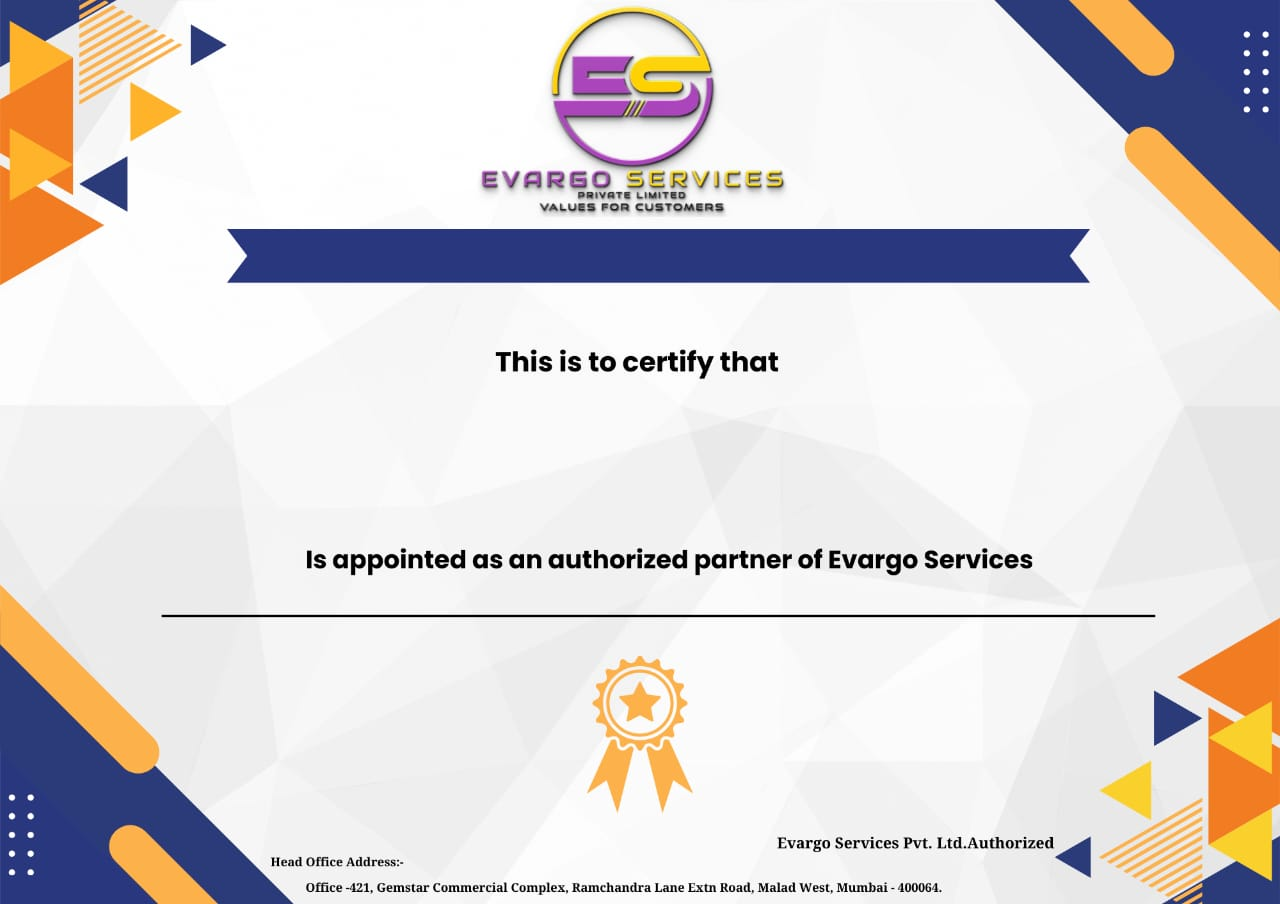
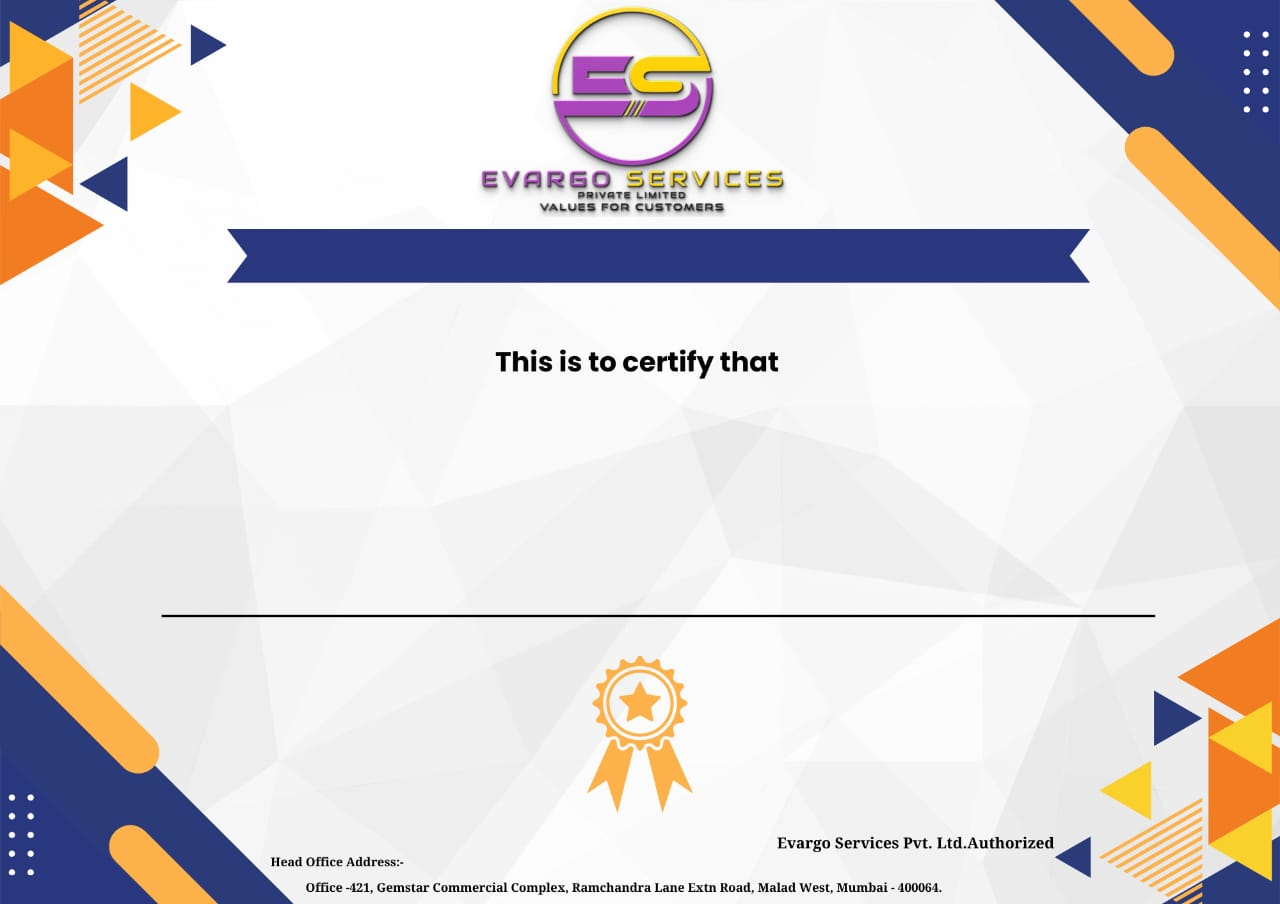
changed certificate to have some extra text on it

Changed region(s): [[0.25, 0.5885, 0.8125, 0.6504]]

diff --git a/certificate.php b/certificate.php
@@ -319,6 +319,15 @@ $role = $_SESSION['role'];
                     fontFamily: "'Poppins', sans-serif",
                     color: '#FFFFFF',
                     weight: 'bold'
+                },
+                partnerTitle: {
+                    x:650,
+                    y: 570,
+                    maxWidth: 900,
+                    fontSize: 66,
+                    fontFamily: "'Poppins', sans-serif",
+                    color: '#000000',
+                    weight: 'bold'
                 }
             };
 
@@ -438,6 +447,17 @@ $role = $_SESSION['role'];
                     textConfig.role.fontFamily,
                     textConfig.role.color,
                     textConfig.role.weight
+                );
+
+                drawCenteredText(
+                    `is appointed as an authorized ${userData.role} of Evargo Services.`,
+                    textConfig.partnerTitle.x,
+                    textConfig.partnerTitle.y,
+                    textConfig.partnerTitle.maxWidth,
+                    textConfig.partnerTitle.fontSize,
+                    textConfig.partnerTitle.fontFamily,
+                    textConfig.partnerTitle.color,
+                    textConfig.partnerTitle.weight
                 );
                 
                 hideLoading();
